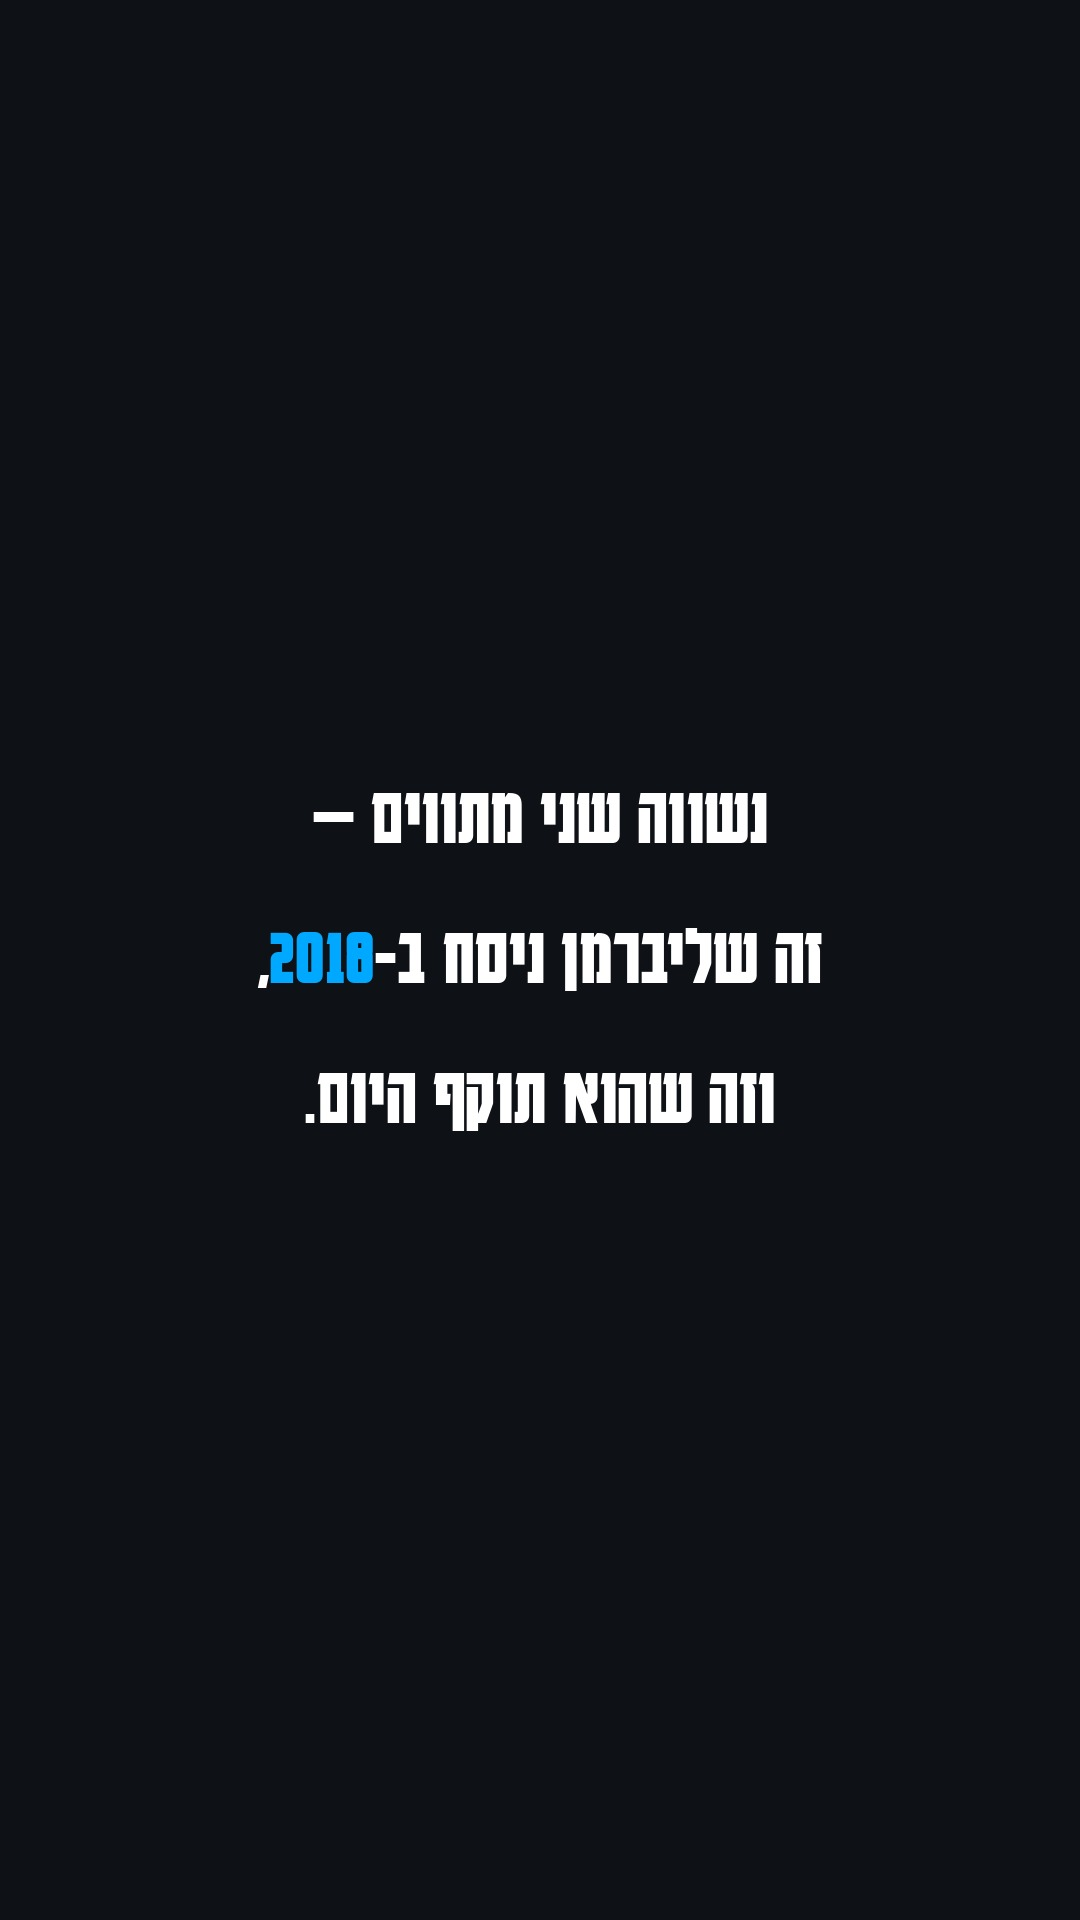
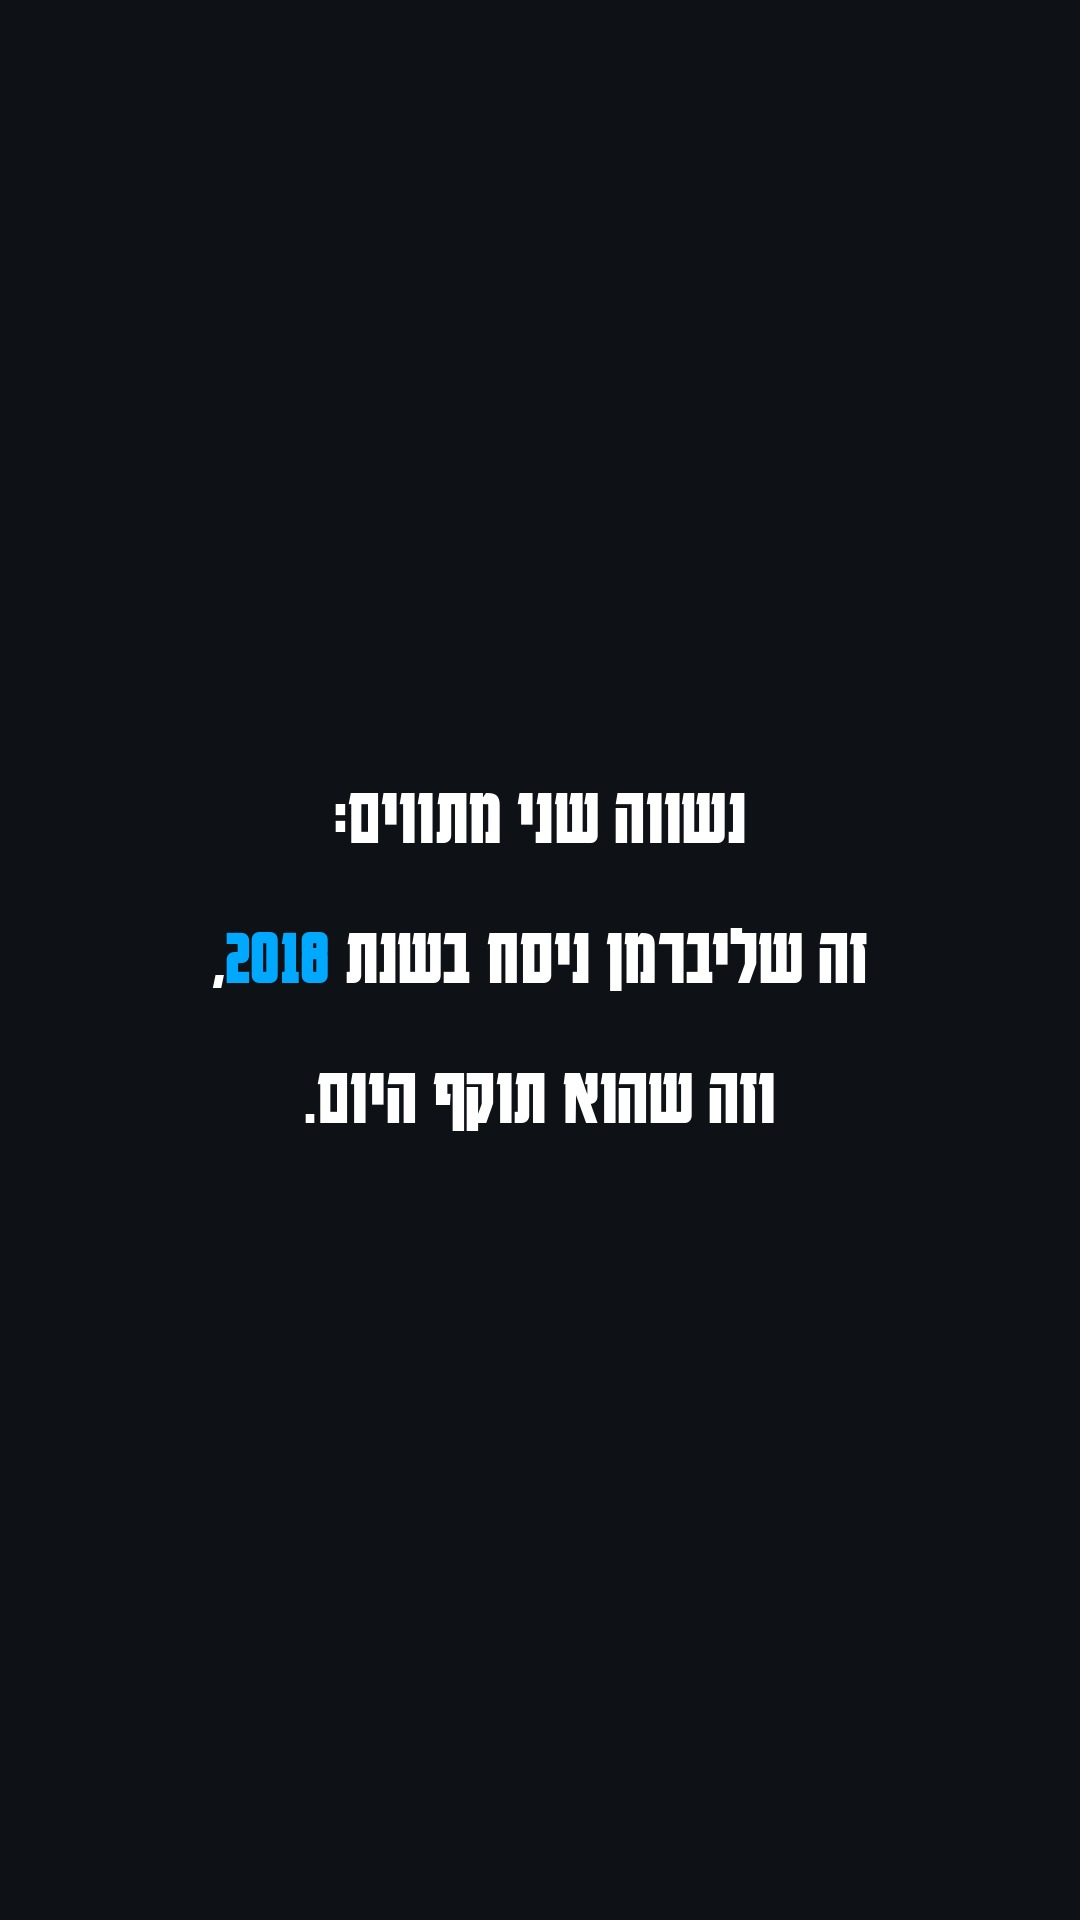
reel: drop every dash from the on-screen copy, enlarge the subtitles
Separator dashes become a comma, period or colon, and "ב-2018" is reworded to
"בשנת 2018" so no hyphen is needed to keep the Hebrew correct. A regex check
over the quoted strings confirms no dash survives in anything that reaches the
screen.

Subtitles go from 66px to 88px with a 6px black outline over the existing soft
shadow, shrinking only if a line would overflow. The sources card grows to
match. On the personal-sanctions card the body now breaks before "עד גיל 26"
instead of orphaning the number on its own line.

Claude-Session: https://claude.ai/code/session_01DQpvPkESDWHrgbccyFMc63

Changed region(s): [[0.1833, 0.4688, 0.825, 0.5312], [0.3056, 0.4062, 0.7333, 0.4375]]

diff --git a/reel/content.py b/reel/content.py
@@ -12,8 +12,8 @@ statement_card("card_01_2018", [
 
 # ---- 11-18s
 statement_card("card_02_setup", [
-    [("נשווה שני מתווים —", None)],
-    [("זה שליברמן ניסח ב-", None), ("2018", B), (",", None)],
+    [("נשווה שני מתווים:", None)],
+    [("זה שליברמן ניסח בשנת ", None), ("2018", B), (",", None)],
     [("וזה שהוא תוקף היום.", None)],
 ], size=84)
 
@@ -23,7 +23,7 @@ comparison_card("card_03_cmp_personal",
     r_head=[("המתווה שלו, ", None), ("2018", B)],
     r_body=[[("אפס", B)], [("חסינות אישית מלאה לבחור הישיבה", None)]],
     l_head=[("המתווה שהוא תוקף, ", None), ("2026", B)],
-    l_body=[[("סנקציות אישיות", None)], [("בנוסח ביסמוט — עד גיל ", None), ("26", B)]])
+    l_body=[[("סנקציות אישיות", None)], [("בנוסח ביסמוט,", None)], [("עד גיל ", None), ("26", B)]])
 
 # ---- 46-54s comparison 3 (timeline)
 comparison_card("card_05_cmp_timeline",
@@ -37,7 +37,7 @@ comparison_card("card_05_cmp_timeline",
 statement_card("card_06_year_after", [
     [("שנה אחרי שהתפטר", None)],
     [("הוא עוד נלחם על אותו מתווה.", None)],
-    [("רק כשזה נכשל — הוא החליף עמדה.", None)],
+    [("רק כשזה נכשל, הוא החליף עמדה.", None)],
 ], size=82)
 
 # ---- 76-86s bottom line
@@ -52,21 +52,21 @@ print("cards rendered")
 from render_cards import (new_card, save, F, BOLD, REG, block, DIM, W, H)
 from PIL import ImageDraw
 img = new_card(); d = ImageDraw.Draw(img)
-y = block(d, [("מקורות", None)], F(BOLD, 76), W/2, 560, W-150, 92)
+y = block(d, [("מקורות", None)], F(BOLD, 88), W/2, 520, W-150, 106)
 y += 60
 rows = [
-    [("סנקציות אישיות עד גיל ", None), ("26", B), (" — נוסח ביסמוט", None)],
+    [("סנקציות אישיות עד גיל ", None), ("26", B), (", נוסח ביסמוט", None)],
     [("הארץ, ", None), ("27.11.2025", B)],
     [("המלצות ועדת ליברמן, משרד הביטחון", None)],
     [("יוני ", None), ("2018", B)],
-    [("“ככתבו וכלשונו” — תנאי סף קואליציוני", None)],
+    [("“ככתבו וכלשונו”, תנאי סף קואליציוני", None)],
     [("מעריב, נובמבר ", None), ("2019", B)],
 ]
-f_a, f_b = F(BOLD, 50), F(REG, 44)
+f_a, f_b = F(BOLD, 60), F(REG, 50)
 for i, r in enumerate(rows):
     if i % 2 == 0:
-        y = block(d, r, f_a, W/2, y, W-160, 60)
+        y = block(d, r, f_a, W/2, y, W-140, 72)
     else:
-        y = block(d, r, f_b, W/2, y, W-160, 54, default=DIM) + 46
+        y = block(d, r, f_b, W/2, y, W-140, 62, default=DIM) + 54
 save(img, "card_08_sources")
 print("sources card done")

diff --git a/reel/render_subs.py b/reel/render_subs.py
@@ -9,7 +9,7 @@ from PIL import Image, ImageDraw, ImageFilter
 
 HERE = os.path.dirname(os.path.abspath(__file__))
 OUT  = os.path.join(HERE, "subs"); os.makedirs(OUT, exist_ok=True)
-W, SUB_H, SIZE = 1080, 150, 66
+W, SUB_H, SIZE = 1080, 190, 88
 
 def render(segs, path):
     img = Image.new("RGBA", (W, SUB_H), (0, 0, 0, 0))
@@ -17,31 +17,33 @@ def render(segs, path):
     f = F(BOLD, SIZE)
     # shrink to fit one line
     size = SIZE
-    while line_w(d, tokenize(segs), F(BOLD, size), ) > W - 110 and size > 40:
+    while line_w(d, tokenize(segs), F(BOLD, size)) > W - 70 and size > 56:
         size -= 2
         f = F(BOLD, size)
     y = (SUB_H - int(size * 1.2)) // 2
-    # soft dark shadow for legibility, then the text
+    # drop shadow to lift the line off the picture
     sh = Image.new("RGBA", (W, SUB_H), (0, 0, 0, 0))
     ds = ImageDraw.Draw(sh)
-    for l in wrap(ds, segs, f, W - 110)[:1]:
-        draw_line_rtl(ds, l, f, W / 2, y, default=(0, 0, 0, 230))
-    img.alpha_composite(sh.filter(ImageFilter.GaussianBlur(7)))
-    img.alpha_composite(sh.filter(ImageFilter.GaussianBlur(3)))
-    for l in wrap(d, segs, f, W - 110)[:1]:
-        draw_line_rtl(d, l, f, W / 2, y, default=WHITE)
+    for l in wrap(ds, segs, f, W - 70)[:1]:
+        draw_line_rtl(ds, l, f, W / 2, y + 4, default=(0, 0, 0, 235))
+    img.alpha_composite(sh.filter(ImageFilter.GaussianBlur(9)))
+    img.alpha_composite(sh.filter(ImageFilter.GaussianBlur(4)))
+    # hard outline, then the fill
+    for l in wrap(d, segs, f, W - 70)[:1]:
+        draw_line_rtl(d, l, f, W / 2, y, default=WHITE,
+                      stroke=6, stroke_fill=(0, 0, 0, 255))
     img.save(path)
 
 B = BLUE
 CUES = {
  "shotA": [
    (0.00, 2.15, [("לא יהיה ", None), ("פטור", B), (", לא לאברך אחד", None)]),
-   (2.15, 4.35, [("ולא לרבע אברך — ", None), ("מאה אחוז גיוס", B)]),
+   (2.15, 4.35, [("ולא לרבע אברך. ", None), ("מאה אחוז גיוס", B)]),
    (4.95, 6.15, [("שום ", None), ("פשרה", B)]),
  ],
  "shotB": [
    (0.00,  2.80, [("כל צעיר בן שמונה עשרה ", None), ("מתייצב", B), (" בבקו״ם", None)]),
-   (3.19,  6.51, [("וכל צעיר — זה יהודי, נוצרי", None)]),
+   (3.19,  6.51, [("וכל צעיר, זה יהודי, נוצרי", None)]),
    (6.75,  7.86, [("צ׳רקסי", None)]),
    (8.27,  9.91, [("שני מסלולים", B), (": או מסלול צבאי", None)]),
    (10.17,11.86, [("והשאר למסלול", None)]),

diff --git a/reel/render_cards.py b/reel/render_cards.py
@@ -52,14 +52,15 @@ def line_w(d, toks, font):
     w += sp * sum(1 for i, (_, _, s) in enumerate(toks) if s and i < len(toks) - 1)
     return w
 
-def draw_line_rtl(d, toks, font, cx, y, default=WHITE):
+def draw_line_rtl(d, toks, font, cx, y, default=WHITE, stroke=0, stroke_fill=None):
     """Draws a single line centred on cx, laid out right-to-left."""
     sp = d.textlength(" ", font=font)
     x = cx + line_w(d, toks, font) / 2
     for i, (t, col, space) in enumerate(toks):
         w = tw(d, t, font)
         d.text((x - w, y), t, font=font, fill=col or default,
-               direction="ltr" if is_num(t) else "rtl")
+               direction="ltr" if is_num(t) else "rtl",
+               stroke_width=stroke, stroke_fill=stroke_fill)
         x -= w
         if space and i < len(toks) - 1:
             x -= sp

diff --git a/reel/README.md b/reel/README.md
@@ -35,6 +35,9 @@
 **שוט א (מקור 30.05-36.20):**
 > "לא יהיה פטור, לא לאברך אחד ולא לרבע אברך. מאה אחוז גיוס. שום פשרה."
 
+אין מקפים באף טקסט על המסך — לא בכתוביות ולא בכרטיסים. איפה שהיה מקף מפריד
+יש עכשיו פסיק, נקודה או נקודתיים. `ב-2018` נוסח מחדש ל`בשנת 2018`.
+
 **שוט ב (מקור 11.49-26.40)** — במלואו, כולל ההסתייגות על המסלול האזרחי:
 > "כל צעיר בן שמונה עשרה מתייצב בבקו״ם. וכל צעיר — זה יהודי, נוצרי, צ׳רקסי.
 > שני מסלולים: או מסלול צבאי, והשאר למסלול אזרחי. לא יהיה פטור לאחד.
@@ -43,6 +46,9 @@
 החתכים ננעלו על גבולות דיבור שאותרו ב-`silencedetect`, כך שאף מילה לא נחתכת.
 
 ## RTL
+
+הכתוביות הן 88px Karantina עם קו מתאר שחור 6px וצל רך, ומתכווצות עד 56px רק
+אם שורה חורגת מרוחב הפריים.
 
 libass הופך את סדר המילים בעברית — נבדק, ואומת שהוא שובר את הטקסט.
 לכן הכתוביות לא עוברות דרכו: הן נבנות ב-`render_subs.py` דרך אותו מנוע
